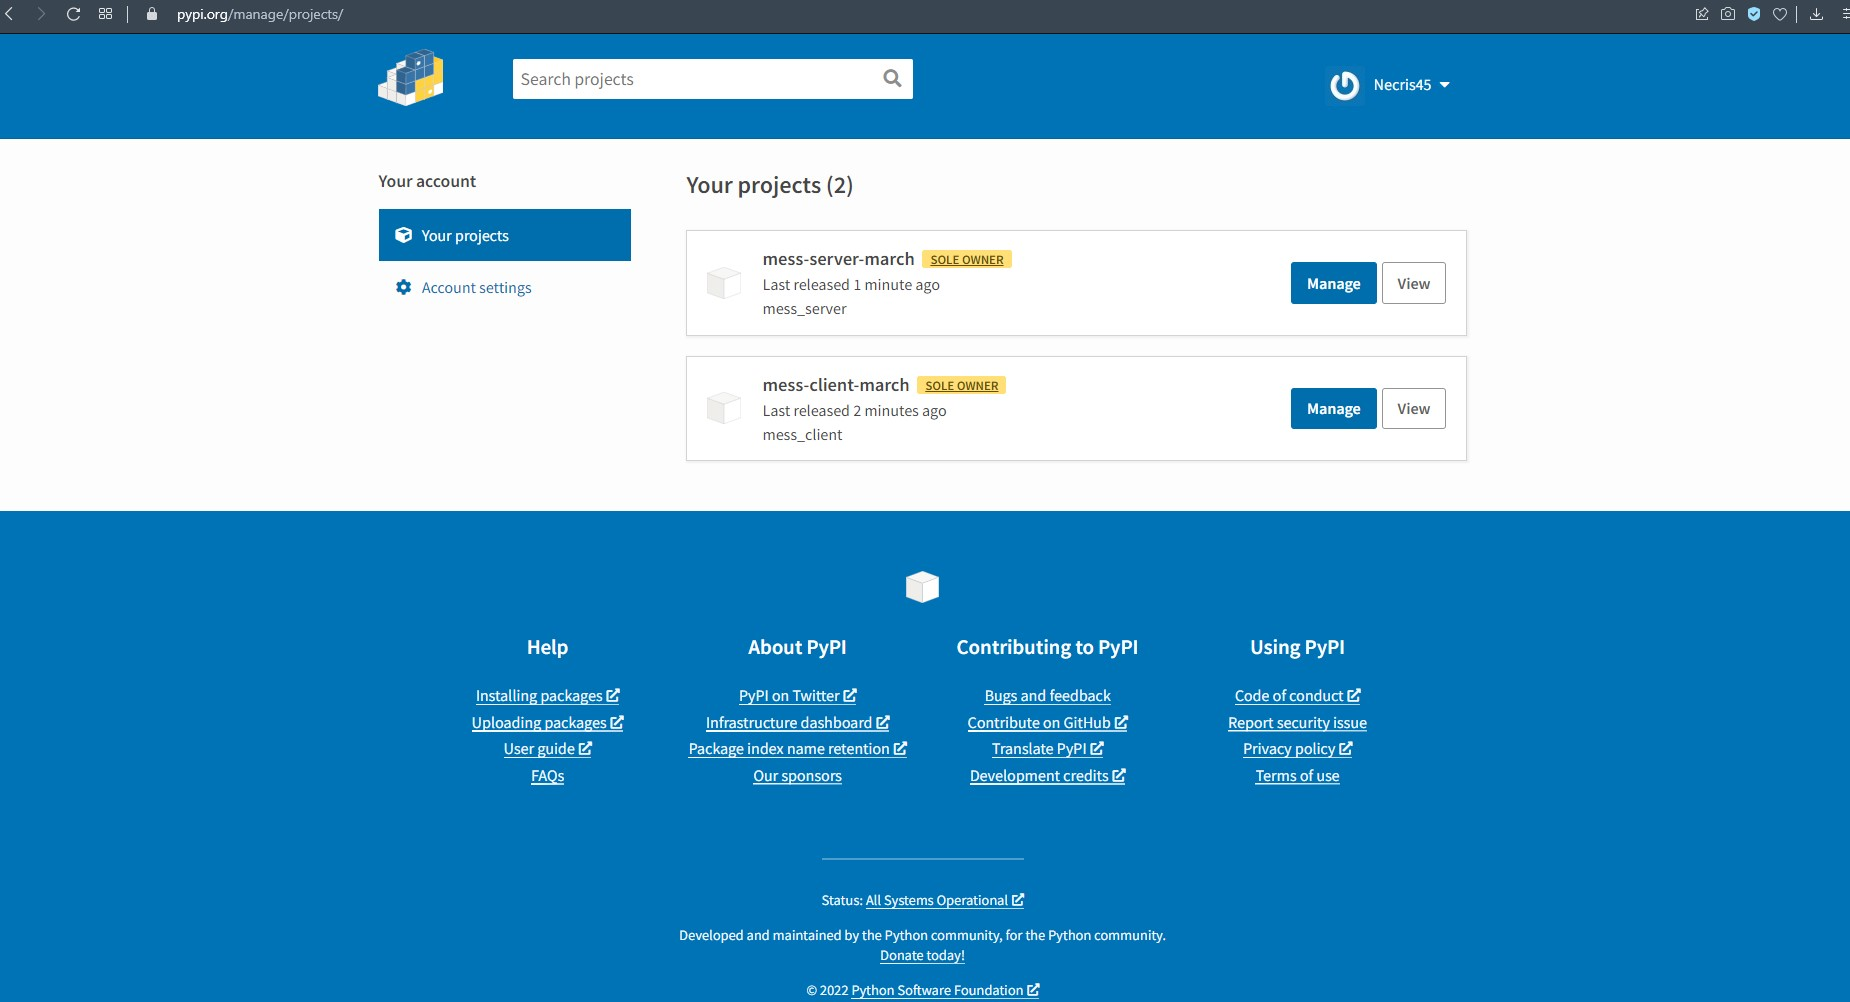
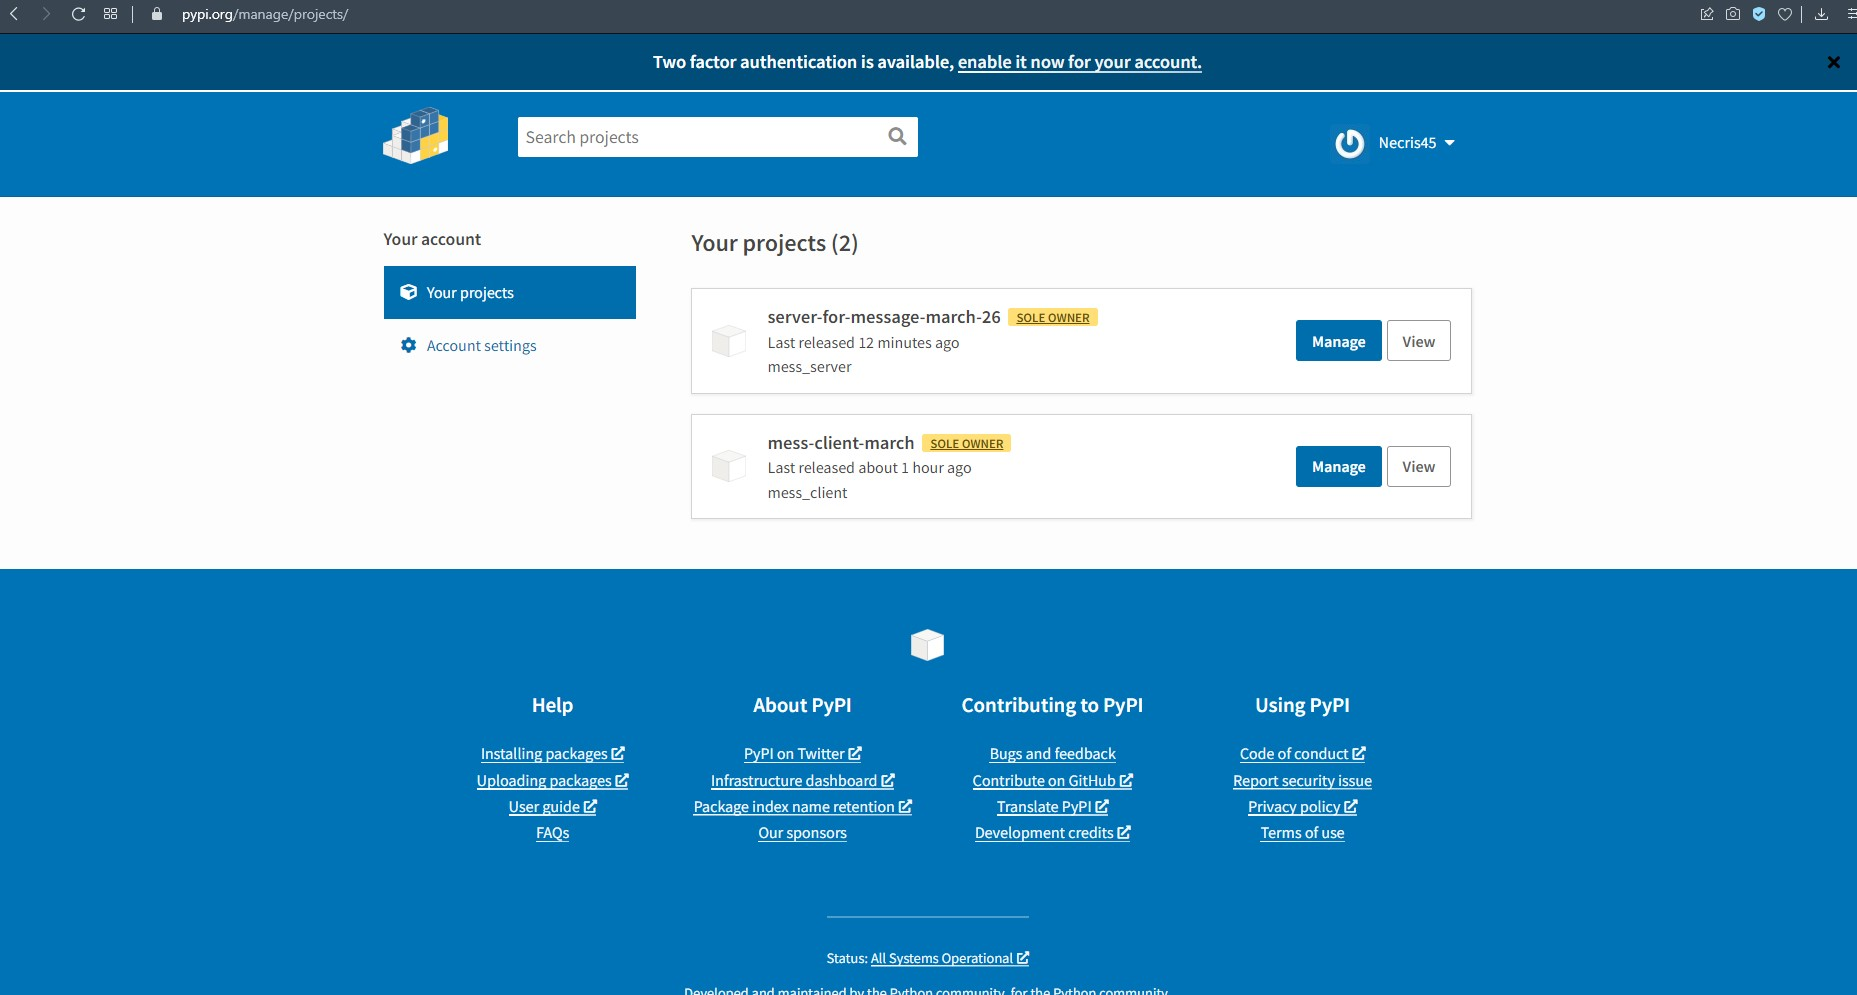
problem with Pyinstaller 9379 WARNING: Hidden import "sip" not found! 10244 WARNING: Hidden import "pysqlite2" not found! 10245 WARNING: Hidden import "MySQLdb" not found! 10245 WARNING: Hidden import "psycopg2" not found!

diff --git a/server_pack/build/lib/server/server.py b/server_pack/build/lib/server/server.py
@@ -13,8 +13,9 @@ from server.main_window import MainWindow
 from PyQt5.QtWidgets import QApplication
 from PyQt5.QtCore import Qt
 
+path_main = os.getcwd()
+sys.path.insert(0,f'{path_main}/common')
 logs = logging.getLogger('server')
-
 
 @log
 def arg_parser(default_port, default_address):

diff --git a/server_pack/server/server.py b/server_pack/server/server.py
@@ -13,8 +13,9 @@ from server.main_window import MainWindow
 from PyQt5.QtWidgets import QApplication
 from PyQt5.QtCore import Qt
 
+path_main = os.getcwd()
+sys.path.insert(0,f'{path_main}/common')
 logs = logging.getLogger('server')
-
 
 @log
 def arg_parser(default_port, default_address):

diff --git a/server_pack/setup.py b/server_pack/setup.py
@@ -1,6 +1,6 @@
 from setuptools import setup, find_packages
 
-setup(name="mess_server_march",
+setup(name="server_for_message_march_26",
       version="0.6.1",
       description="mess_server",
       author="Ivan Necris45 Sizikov",
